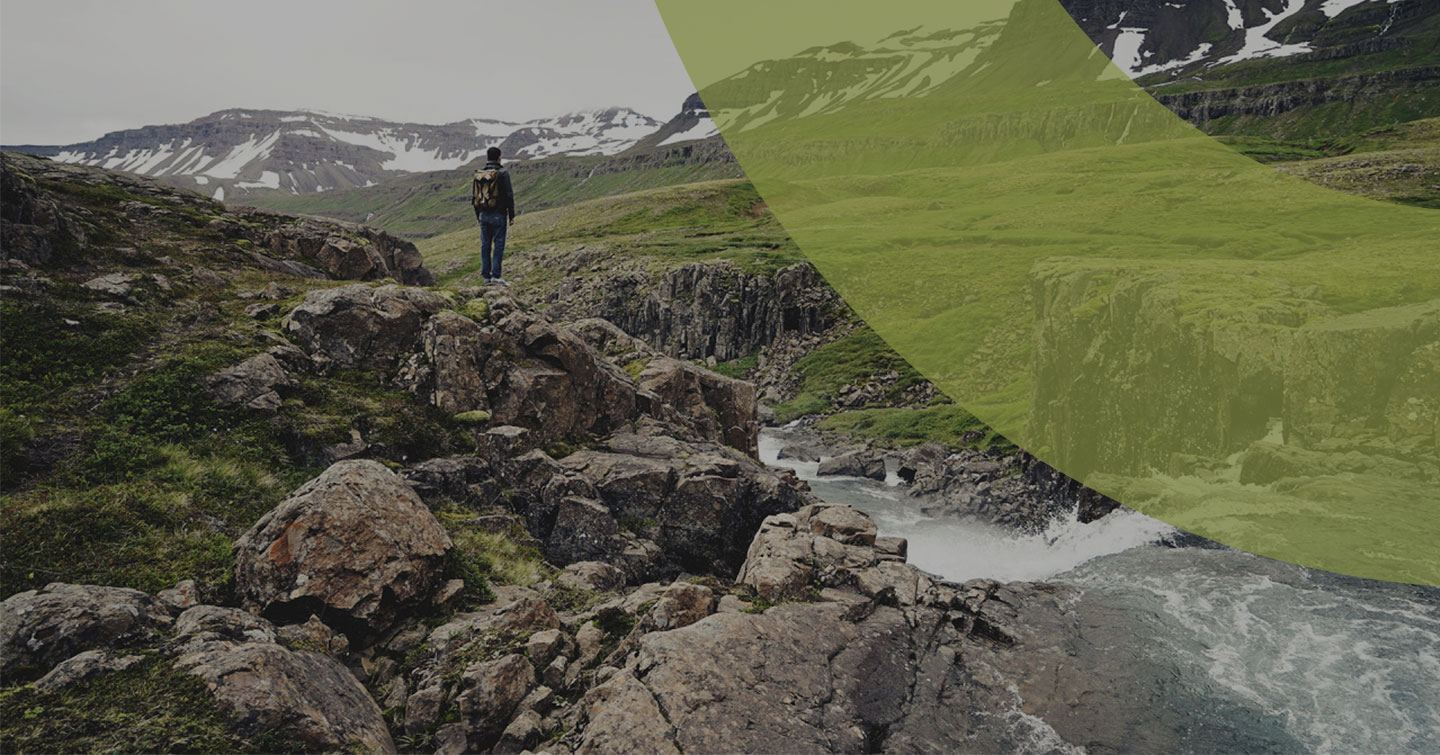
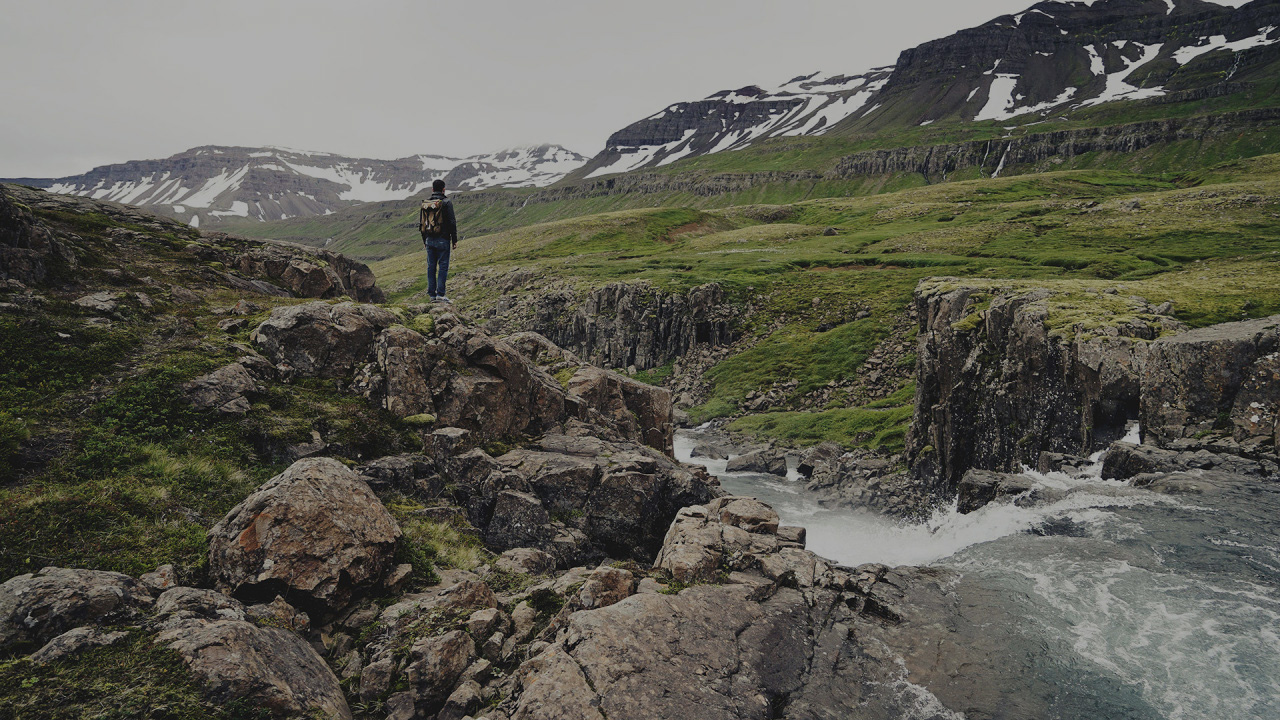
Features on product page and home header

diff --git a/public/produit.html b/public/produit.html
@@ -69,6 +69,24 @@
                     <h4 class="title title--medium title--medium-orange">Une gestion efficace<br/>des tronçons et du territoires</h4>
                     <a href="#" class="button button--small button--orange">Version d'essai</a>
                     <p>Exsistit autem hoc loco quaedam quaestio subdifficilis, num quando amici novi, digni amicitia, veteribus sint anteponendi, ut equis vetulis teneros anteponere solemus. Indigna homine dubitatio! Non enim debent esse amicitiarum sicut  aliarum rerum satietates; veterrima quaeque, ut ea vina, quae vetustatem.</p>
+                    <ul class="features features--orange">
+                        <li class="features__item">
+                            <img class="features__image" src="assets/img/picto_lien.svg" alt="">
+                            Lien avec les S.I.T
+                        </li>
+                        <li class="features__item">
+                            <img class="features__image" src="assets/img/picto_import-export.svg" alt="">
+                            Import / export de données
+                        </li>
+                        <li class="features__item">
+                            <img class="features__image" src="assets/img/picto_segment.svg" alt="">
+                            Segmentation dynamique
+                        </li>
+                        <li class="features__item">
+                            <img class="features__image" src="assets/img/picto_montagne.svg" alt="">
+                            Calculs altimétriques
+                        </li>
+                    </ul>
                 </div>
             </div>
         </section>
@@ -87,6 +105,16 @@
                     <h4 class="title title--medium title--medium-turquoise">Une gestion efficace<br/>des tronçons et du territoires</h4>
                     <a href="#" class="button button--small button--turquoise">Version d'essai</a>
                     <p>Exsistit autem hoc loco quaedam quaestio subdifficilis, num quando amici novi, digni amicitia, veteribus sint anteponendi, ut equis vetulis teneros anteponere solemus. Indigna homine dubitatio! Non enim debent esse amicitiarum sicut  aliarum rerum satietates; veterrima quaeque, ut ea vina, quae vetustatem.</p>
+                    <ul class="features features--turquoise">
+                        <li class="features__item">
+                            <img class="features__image" src="assets/img/picto_custo.svg" alt="">
+                            une plateforme à votre image
+                        </li>
+                        <li class="features__item">
+                            <img class="features__image" src="assets/img/picto_3d.svg" alt="">
+                            Représentation 3d des parcours
+                        </li>
+                    </ul>
                 </div>
             </div>
         </section>
@@ -105,6 +133,16 @@
                     <h4 class="title title--medium title--medium-violet">Une gestion efficace<br/>des tronçons et du territoires</h4>
                     <a href="#" class="button button--small button--violet">Version d'essai</a>
                     <p>Exsistit autem hoc loco quaedam quaestio subdifficilis, num quando amici novi, digni amicitia, veteribus sint anteponendi, ut equis vetulis teneros anteponere solemus. Indigna homine dubitatio! Non enim debent esse amicitiarum sicut  aliarum rerum satietates; veterrima quaeque, ut ea vina, quae vetustatem.</p>
+                    <ul class="features features--violet">
+                        <li class="features__item">
+                            <img class="features__image" src="assets/img/picto_click.svg" alt="">
+                            Randonnée interactive
+                        </li>
+                        <li class="features__item">
+                            <img class="features__image" src="assets/img/picto_wifi.svg" alt="">
+                            Mode connecté / déconnecté
+                        </li>
+                    </ul>
                 </div>
             </div>
         </section>

diff --git a/public/assets/css/geotrek.css b/public/assets/css/geotrek.css
@@ -11,10 +11,10 @@ body {
   padding: 0;
   font-family: "Raleway", sans-serif; }
 
-p, h1, h2, h3, h4 {
+p, h1, h2, h3, h4, li {
   color: #383933; }
 
-p {
+p, li {
   font-size: 13px;
   line-height: 180%; }
 
@@ -176,7 +176,8 @@ h1, h2 {
   width: 100%;
   background-image: url("../img/home-bg.jpg");
   background-size: cover;
-  color: white; }
+  color: white;
+  overflow: hidden; }
   .header__content {
     text-align: center;
     display: flex;
@@ -296,7 +297,7 @@ h1, h2 {
     top: .5rem;
     transform: rotate(-45deg); }
   .menu--toggled .menu__liste {
-    height: 204px; }
+    height: 224px; }
     @media (min-width: 768px) {
       .menu--toggled .menu__liste {
         height: auto; } }
@@ -420,7 +421,9 @@ h1, h2 {
   min-width: 320px;
   width: 100%;
   padding: 0 16px;
-  padding: 0 16px; }
+  padding: 0 16px;
+  position: relative;
+  z-index: 0; }
   @media (min-width: 980px) {
     .home__header {
       width: 960px; } }
@@ -430,10 +433,42 @@ h1, h2 {
   @media (min-width: 1440px) {
     .home__header {
       width: 1400px; } }
+  .home__header > * {
+    position: relative;
+    z-index: 3; }
   .home__header img {
     max-width: 640px;
     width: 100%;
     height: auto; }
+  .home__header::after {
+    position: absolute;
+    content: '';
+    display: block;
+    border-style: solid;
+    border-color: #848e40;
+    opacity: .5;
+    border-width: 150px;
+    top: -500px;
+    right: -400px;
+    width: 400px;
+    height: 400px;
+    border-radius: 400px; }
+    @media (min-width: 768px) {
+      .home__header::after {
+        border-width: 300px;
+        width: 600px;
+        height: 600px;
+        border-radius: 600px;
+        top: -800px;
+        right: -700px; } }
+    @media (min-width: 980px) {
+      .home__header::after {
+        border-width: 380px;
+        top: -1000px;
+        right: -760px;
+        width: 800px;
+        height: 800px;
+        border-radius: 800px; } }
 
 .home__image {
   height: 100px;
@@ -518,3 +553,34 @@ h1, h2 {
   align-items: center; }
   .product__content .button {
     margin-left: 0; }
+
+.features {
+  margin: 0;
+  padding: 0;
+  display: flex;
+  flex-wrap: wrap;
+  justify-content: flex-start; }
+  .features__item {
+    width: 192px;
+    padding: 0 16px 16px 0;
+    list-style-type: none;
+    display: flex;
+    justify-content: flex-start;
+    align-items: center;
+    font-weight: bold;
+    font-size: .8em;
+    text-transform: uppercase; }
+  .features__image {
+    border: solid 1px transparent;
+    width: 42px;
+    height: 42px;
+    display: block;
+    border-radius: 4px;
+    padding: 6px;
+    margin-right: 12px; }
+  .features--orange .features__image {
+    border-color: #e8491e; }
+  .features--turquoise .features__image {
+    border-color: #3bb6b3; }
+  .features--violet .features__image {
+    border-color: #9d6bc9; }

diff --git a/src/scss/components/_home.scss b/src/scss/components/_home.scss
@@ -3,11 +3,51 @@
     &__header {
         @include wrapper;
         padding: 0 $base-padding;
+        position: relative;
+        z-index: 0;
+
+        > * {
+            position: relative;
+            z-index: 3;
+        }
 
         img {
             max-width: 640px;
             width: 100%;
             height: auto;
+        }
+
+        &::after {
+            position: absolute;
+            content: '';
+            display: block;
+            border-style: solid;
+            border-color: $green-soft;
+            opacity: .5;
+            border-width: 150px;
+            top: -500px;
+            right: -400px;
+            width: 400px;
+            height: 400px;
+            border-radius: 400px;
+
+            @include mq($sm) {
+                border-width: 300px;
+                width: 600px;
+                height: 600px;
+                border-radius: 600px;
+                top: -800px;
+                right: -700px;
+            }
+
+            @include mq($md) {
+                border-width: 380px;
+                top: -1000px;
+                right: -760px;
+                width: 800px;
+                height: 800px;
+                border-radius: 800px;
+            }
         }
     }
 

diff --git a/src/scss/components/_product.scss b/src/scss/components/_product.scss
@@ -86,5 +86,52 @@
             margin-left: 0;
         }
     }
+}
 
+.features {
+    margin: 0;
+    padding: 0;
+    display: flex;
+    flex-wrap: wrap;
+    justify-content: flex-start;
+
+    &__item {
+        width: 192px;
+        padding: 0 $base-padding $base-padding 0;
+        list-style-type: none;
+        display: flex;
+        justify-content: flex-start;
+        align-items: center;
+        font-weight: bold;
+        font-size: .8em;
+        text-transform: uppercase;
+    }
+
+    &__image {
+        border: solid 1px transparent;
+        width: 42px;
+        height: 42px;
+        display: block;
+        border-radius: 4px;
+        padding: 6px;
+        margin-right: 12px;
+    }
+
+    &--orange {
+        .features__image {
+            border-color: $orange;
+        }
+    }
+
+    &--turquoise {
+        .features__image {
+            border-color: $turquoise;
+        }
+    }
+
+    &--violet {
+        .features__image {
+            border-color: $violet;
+        }
+    }
 }

diff --git a/src/scss/components/_layout.scss b/src/scss/components/_layout.scss
@@ -1,7 +1,8 @@
 //  Table of Contents:
 //
 //   1. General
-//   2. Grid
+//   2. Title
+//   3. Grid
 
 
 // 1. General
@@ -22,11 +23,11 @@ body {
     font-family: $base-font-family;
 }
 
-p, h1, h2, h3, h4 {
+p, h1, h2, h3, h4, li {
     color: $text-color;
 }
 
-p {
+p, li {
     font-size: $base-font-size;
     line-height: 180%;
 }
@@ -34,6 +35,9 @@ p {
 h1, h2 {
     text-transform: uppercase;
 }
+
+// 2. Title
+// ---------
 
 .title {
     letter-spacing: 1px;
@@ -84,7 +88,7 @@ h1, h2 {
 }
 
 
-// 2. Grid
+// 3. Grid
 // ---------
 
 .grid {

diff --git a/src/scss/components/_header.scss b/src/scss/components/_header.scss
@@ -3,7 +3,7 @@
     background-image: url('../img/home-bg.jpg');
     background-size: cover;
     color: white;
-
+    overflow: hidden;
 
     &__content {
         text-align: center;
@@ -153,7 +153,7 @@
         }
 
         .menu__liste {
-            height: 204px;
+            height: 224px;
 
             @include mq($sm) {
                 height: auto;

diff --git a/src/scss/_variables.scss b/src/scss/_variables.scss
@@ -24,6 +24,7 @@ $grey-light: #999797;
 $beige: #cbcbc9;
 $beige-light: #f0efec;
 $green: #b4cc1b;
+$green-soft: #848e40;
 $green-dark: #677331;
 $orange: #e8491e;
 $orange-light: #ee6b4d;
